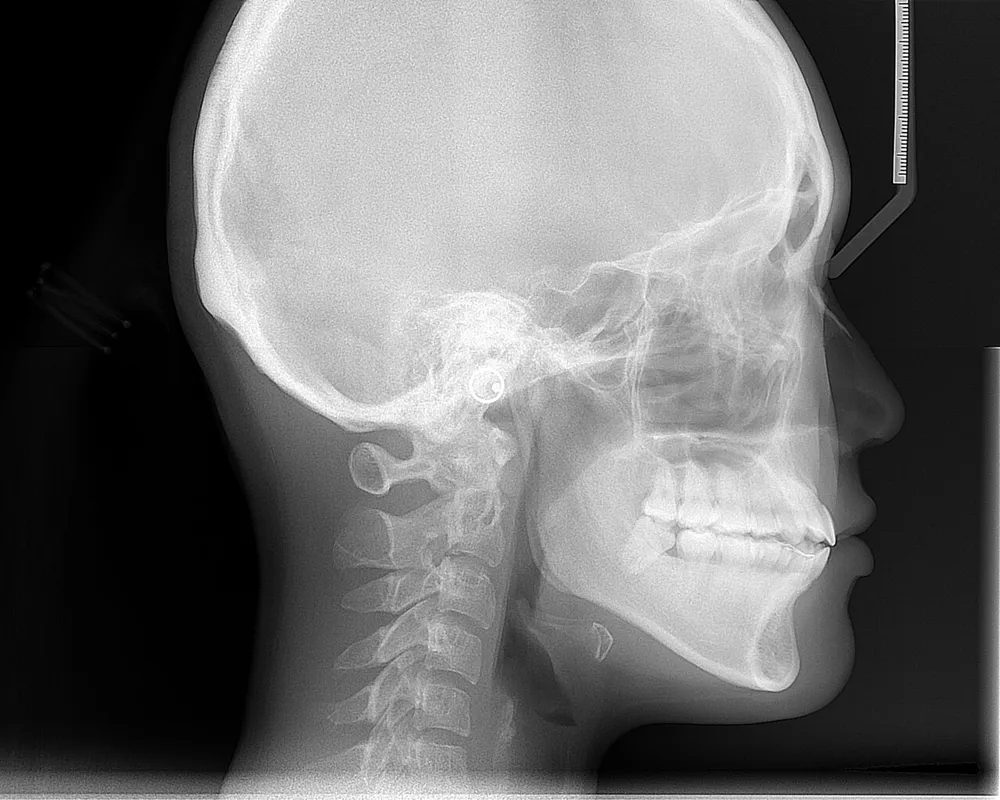
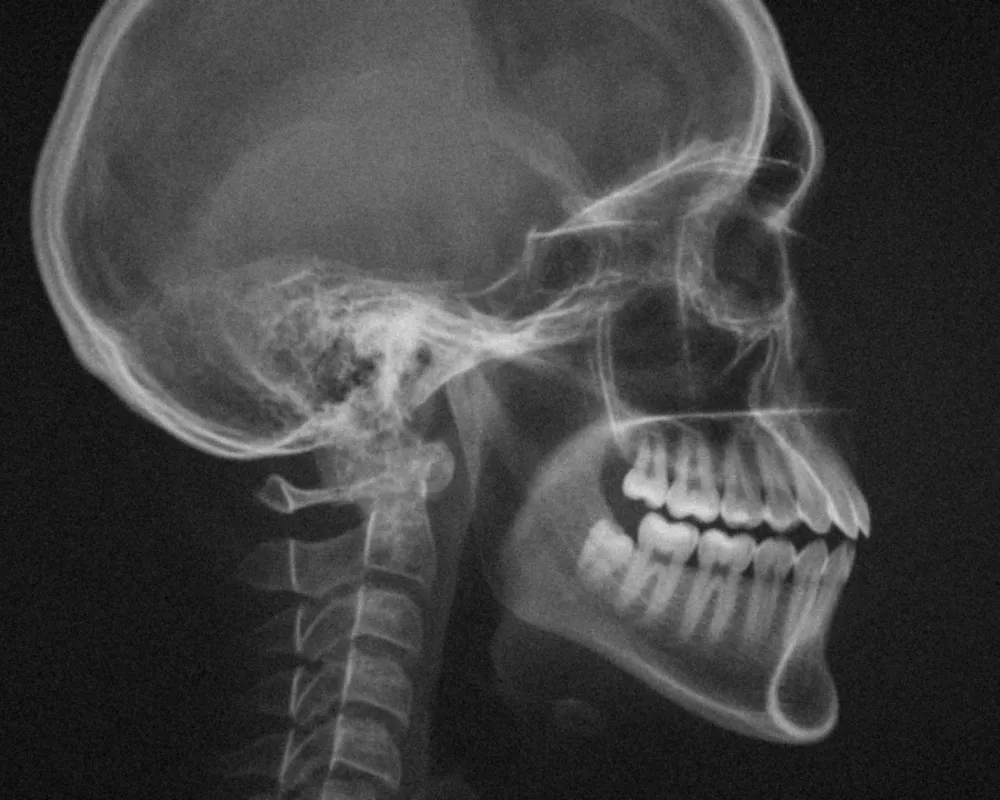
Use original generated lateral ceph image

diff --git a/index.html b/index.html
@@ -79,7 +79,7 @@
         <p>측면 두부계측 방사선 사진에서 계측점을 지정하고 각도·거리를 계산하는 분석 소프트웨어입니다. 반복되는 트레이싱을 줄이고, 결과는 일관된 리포트로 정리합니다.</p>
         <ul><li>계측점 지정 보조와 수동 미세 조정</li><li>SNA · SNB · ANB 등 주요 계측값 산출</li><li>분석 결과 리포트 출력</li></ul>
       </div>
-      <div class="p-visual photo-vis"><div class="ceph-panel"><div class="win-bar"><i></i><i></i><i></i><span>Lateral Ceph · Tracing</span></div><div class="cp-body"><img src="assets/img/ceph-lateral.webp" alt="측면 두부계측 방사선 사진" loading="lazy"><svg viewBox="0 0 800 640" class="cp-svg"><g class="cl"><line x1="425" y1="250" x2="658" y2="212"/><line x1="658" y1="212" x2="650" y2="352"/><line x1="658" y1="212" x2="625" y2="478"/><line x1="458" y1="498" x2="608" y2="552"/></g><g class="fh"><line x1="388" y1="306" x2="600" y2="265"/></g><g class="cpts"><circle cx="425" cy="250" r="6"/><text x="436" y="242">S</text><circle cx="658" cy="212" r="6"/><text x="669" y="204">N</text><circle cx="650" cy="352" r="6"/><text x="661" y="344">A</text><circle cx="625" cy="478" r="6"/><text x="636" y="470">B</text><circle cx="388" cy="306" r="6"/><text x="399" y="298">Po</text><circle cx="600" cy="265" r="6"/><text x="611" y="257">Or</text><circle cx="608" cy="552" r="6"/><text x="619" y="544">Me</text><circle cx="458" cy="498" r="6"/><text x="469" y="490">Go</text></g></svg></div></div><div class="card-ui float">
+      <div class="p-visual photo-vis"><div class="ceph-panel"><div class="win-bar"><i></i><i></i><i></i><span>Lateral Ceph · Tracing</span></div><div class="cp-body"><img src="assets/img/ceph-lateral.webp" alt="측면 두부계측 방사선 사진 예시 (생성 이미지)" loading="lazy"><svg viewBox="0 0 800 640" class="cp-svg"><g class="cl"><line x1="345" y1="250" x2="629" y2="178"/><line x1="629" y1="178" x2="664" y2="347"/><line x1="629" y1="178" x2="650" y2="502"/><line x1="420" y1="490" x2="632" y2="584"/></g><g class="fh"><line x1="262" y1="298" x2="566" y2="264"/></g><g class="cpts"><circle cx="345" cy="250" r="6"/><text x="356" y="242">S</text><circle cx="629" cy="178" r="6"/><text x="640" y="170">N</text><circle cx="664" cy="347" r="6"/><text x="675" y="339">A</text><circle cx="650" cy="502" r="6"/><text x="661" y="494">B</text><circle cx="262" cy="298" r="6"/><text x="273" y="290">Po</text><circle cx="566" cy="264" r="6"/><text x="577" y="256">Or</text><circle cx="632" cy="584" r="6"/><text x="643" y="576">Me</text><circle cx="420" cy="490" r="6"/><text x="431" y="482">Go</text></g></svg></div></div><div class="card-ui float">
           <div class="ui-head"><span>Analysis</span><span class="mono">Steiner</span></div>
           <table class="mtable">
             <tr><th>항목</th><th>측정</th><th>기준</th><th></th></tr>
@@ -155,7 +155,7 @@
 <footer class="footer">
   <div class="wrap foot-in">
     <div class="brand light"><span>Curevi</span><em>큐레비</em></div>
-    <p class="disc">큐레비의 제품은 현재 개발 중이며, 의료기기 인허가를 받은 제품이 아닙니다. 화면은 컨셉 예시이며, 사진은 Unsplash 라이선스 이미지이며, 측면 두부계측 사진은 ANUG / Wikimedia Commons (<a href="https://creativecommons.org/licenses/by-sa/4.0/" target="_blank" rel="noopener">CC BY-SA 4.0</a>, 트레이싱 추가)입니다.</p>
+    <p class="disc">큐레비의 제품은 현재 개발 중이며, 의료기기 인허가를 받은 제품이 아닙니다. 화면은 컨셉 예시이며, 사진은 Unsplash 라이선스 이미지이며입니다.</p>
     <p class="copy">© 2026 Curevi. All rights reserved.</p>
   </div>
 </footer>

diff --git a/assets/img/CREDITS.md b/assets/img/CREDITS.md
@@ -8,6 +8,6 @@ Photos below are used, unless noted, under the [Unsplash License](https://unspla
 | lab.webp | Gloved hand holding a dental implant and crown | https://unsplash.com/photos/gloved-hand-holding-a-dental-implant-and-crown-eHwRLpfHSKY |
 | abstract.webp | Dark blue abstract vertical lines | https://unsplash.com/photos/a-dark-blue-background-with-vertical-lines-zjT3F_M2G0Q |
 
-## Wikimedia Commons
+## Original
 
-- **ceph-lateral.webp** — "Cephalometric radiograph.JPG" (lateral cephalometric radiograph) by **ANUG**, https://commons.wikimedia.org/wiki/File:Cephalometric_radiograph.JPG — licensed **CC BY-SA 4.0** (https://creativecommons.org/licenses/by-sa/4.0/). Changes: resized, converted to WebP, color-tinted via CSS, landmark tracing overlaid via SVG. The adapted image is shared under CC BY-SA 4.0.
+- **ceph-lateral.webp** — original generated illustration of a lateral cephalometric radiograph, created for Curevi. Not a real patient image; no third-party attribution required.
